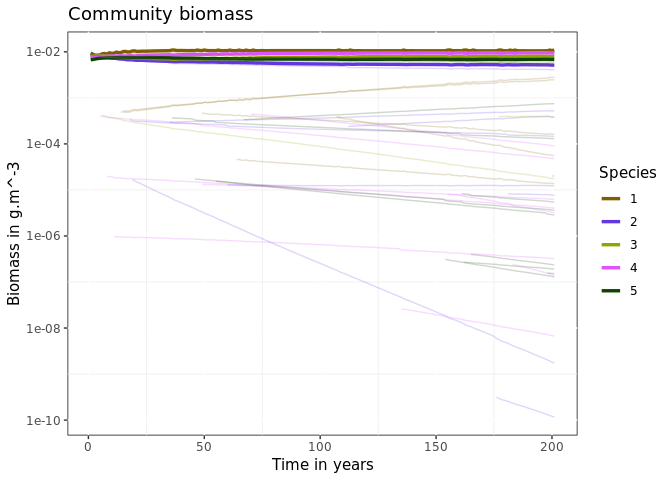
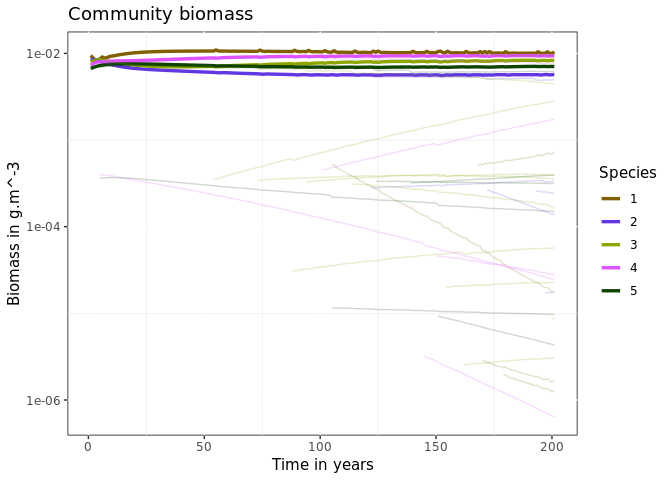
updating readme

diff --git a/README.md b/README.md
@@ -304,8 +304,384 @@ alien$species <- as.character(c(12,13))
 
 #important: for now need to add new species following the number of existing species (e.g. generated ecosystem contains 11 species so first invading species is 12). Does not work otherwise
 sim <- evoProject(params = params, alien = alien, mutation = 0)
+#>    species w_min       w_inf       w_mat w_min_idx  h    gamma ks  f0   fc beta
+#> 1        1 0.001    10.00000    2.511886         1 40 2754.672  4 0.6 0.25  100
+#> 2        2 0.001    19.95262    5.011872         1 40 2754.672  4 0.6 0.25  100
+#> 3        3 0.001    39.81072   10.000000         1 40 2754.672  4 0.6 0.25  100
+#> 4        4 0.001    79.43282   19.952623         1 40 2754.672  4 0.6 0.25  100
+#> 5        5 0.001   158.48932   39.810717         1 40 2754.672  4 0.6 0.25  100
+#> 6        6 0.001   316.22777   79.432823         1 40 2754.672  4 0.6 0.25  100
+#> 7        7 0.001   630.95734  158.489319         1 40 2754.672  4 0.6 0.25  100
+#> 8        8 0.001  1258.92541  316.227766         1 40 2754.672  4 0.6 0.25  100
+#> 9        9 0.001  2511.88643  630.957344         1 40 2754.672  4 0.6 0.25  100
+#> 10      10 0.001  5011.87234 1258.925412         1 40 2754.672  4 0.6 0.25  100
+#> 11      11 0.001 10000.00000 2511.886432         1 40 2754.672  4 0.6 0.25  100
+#> 12      12 0.001    79.43282   19.952623         1 50 2754.672  4 0.6 0.25  100
+#>    sigma z0 alpha     erepro interaction_resource         n         p         q
+#> 1    1.3  0   0.4 0.11952402                    1 0.6666667 0.6666667 0.7166667
+#> 2    1.3  0   0.4 0.09480694                    1 0.6666667 0.6666667 0.7166667
+#> 3    1.3  0   0.4 0.07513533                    1 0.6666667 0.6666667 0.7166667
+#> 4    1.3  0   0.4 0.05979226                    1 0.6666667 0.6666667 0.7166667
+#> 5    1.3  0   0.4 0.04809642                    1 0.6666667 0.6666667 0.7166667
+#> 6    1.3  0   0.4 0.03924217                    1 0.6666667 0.6666667 0.7166667
+#> 7    1.3  0   0.4 0.03232946                    1 0.6666667 0.6666667 0.7166667
+#> 8    1.3  0   0.4 0.02658807                    1 0.6666667 0.6666667 0.7166667
+#> 9    1.3  0   0.4 0.02163458                    1 0.6666667 0.6666667 0.7166667
+#> 10   1.3  0   0.4 0.01743907                    1 0.6666667 0.6666667 0.7166667
+#> 11   1.3  0   0.4 0.01403004                    1 0.6666667 0.6666667 0.7166667
+#> 12   1.3  0   0.6 0.05979226                    1 0.6666667 0.6666667 0.7166667
+#>    pred_kernel_type k     w_mat25 m       R_max lineage ea_int ca_int zeta pop
+#> 1         lognormal 0    2.250546 1 1.032270637       1      0      0  0.2   1
+#> 2         lognormal 0    4.490429 1 0.635115196       2      0      0  0.2   1
+#> 3         lognormal 0    8.959585 1 0.390761200       3      0      0  0.2   1
+#> 4         lognormal 0   17.876722 1 0.240419874       4      0      0  0.2   1
+#> 5         lognormal 0   35.668749 1 0.147920816       5      0      0  0.2   1
+#> 6         lognormal 0   71.168510 1 0.091009814       6      0      0  0.2   1
+#> 7         lognormal 0  141.999846 1 0.055994730       7      0      0  0.2   1
+#> 8         lognormal 0  283.326942 1 0.034451337       8      0      0  0.2   1
+#> 9         lognormal 0  565.311571 1 0.021196542       9      0      0  0.2   1
+#> 10        lognormal 0 1127.944873 1 0.013041392      10      0      0  0.2   1
+#> 11        lognormal 0 2250.545898 1 0.008023851      11      0      0  0.2   1
+#> 12        lognormal 0   17.876722 1 0.240419874      12      0      0  0.2   1
+#>      ext time
+#> 1  FALSE   NA
+#> 2  FALSE   NA
+#> 3  FALSE   NA
+#> 4  FALSE   NA
+#> 5  FALSE   NA
+#> 6  FALSE   NA
+#> 7  FALSE   NA
+#> 8  FALSE   NA
+#> 9  FALSE   NA
+#> 10 FALSE   NA
+#> 11 FALSE   NA
+#> 12 FALSE   50
+#>    species w_min       w_inf       w_mat w_min_idx  h    gamma ks  f0   fc beta
+#> 1        1 0.001    10.00000    2.511886         1 40 2754.672  4 0.6 0.25  100
+#> 2        2 0.001    19.95262    5.011872         1 40 2754.672  4 0.6 0.25  100
+#> 3        3 0.001    39.81072   10.000000         1 40 2754.672  4 0.6 0.25  100
+#> 4        4 0.001    79.43282   19.952623         1 40 2754.672  4 0.6 0.25  100
+#> 5        5 0.001   158.48932   39.810717         1 40 2754.672  4 0.6 0.25  100
+#> 6        6 0.001   316.22777   79.432823         1 40 2754.672  4 0.6 0.25  100
+#> 7        7 0.001   630.95734  158.489319         1 40 2754.672  4 0.6 0.25  100
+#> 8        8 0.001  1258.92541  316.227766         1 40 2754.672  4 0.6 0.25  100
+#> 9        9 0.001  2511.88643  630.957344         1 40 2754.672  4 0.6 0.25  100
+#> 10      10 0.001  5011.87234 1258.925412         1 40 2754.672  4 0.6 0.25  100
+#> 11      11 0.001 10000.00000 2511.886432         1 40 2754.672  4 0.6 0.25  100
+#> 12      12 0.001    79.43282   19.952623         1 50 2754.672  4 0.6 0.25  100
+#> 13      13 0.001   158.48932   39.810717         1 50 2754.672  4 0.6 0.25  100
+#>    sigma z0 alpha     erepro interaction_resource         n         p         q
+#> 1    1.3  0   0.4 0.11952402                    1 0.6666667 0.6666667 0.7166667
+#> 2    1.3  0   0.4 0.09480694                    1 0.6666667 0.6666667 0.7166667
+#> 3    1.3  0   0.4 0.07513533                    1 0.6666667 0.6666667 0.7166667
+#> 4    1.3  0   0.4 0.05979226                    1 0.6666667 0.6666667 0.7166667
+#> 5    1.3  0   0.4 0.04809642                    1 0.6666667 0.6666667 0.7166667
+#> 6    1.3  0   0.4 0.03924217                    1 0.6666667 0.6666667 0.7166667
+#> 7    1.3  0   0.4 0.03232946                    1 0.6666667 0.6666667 0.7166667
+#> 8    1.3  0   0.4 0.02658807                    1 0.6666667 0.6666667 0.7166667
+#> 9    1.3  0   0.4 0.02163458                    1 0.6666667 0.6666667 0.7166667
+#> 10   1.3  0   0.4 0.01743907                    1 0.6666667 0.6666667 0.7166667
+#> 11   1.3  0   0.4 0.01403004                    1 0.6666667 0.6666667 0.7166667
+#> 12   1.3  0   0.6 0.05979226                    1 0.6666667 0.6666667 0.7166667
+#> 13   1.3  0   0.6 0.04809642                    1 0.6666667 0.6666667 0.7166667
+#>    pred_kernel_type k     w_mat25 m       R_max lineage ea_int ca_int zeta pop
+#> 1         lognormal 0    2.250546 1 1.032270637       1      0      0  0.2   1
+#> 2         lognormal 0    4.490429 1 0.635115196       2      0      0  0.2   1
+#> 3         lognormal 0    8.959585 1 0.390761200       3      0      0  0.2   1
+#> 4         lognormal 0   17.876722 1 0.240419874       4      0      0  0.2   1
+#> 5         lognormal 0   35.668749 1 0.147920816       5      0      0  0.2   1
+#> 6         lognormal 0   71.168510 1 0.091009814       6      0      0  0.2   1
+#> 7         lognormal 0  141.999846 1 0.055994730       7      0      0  0.2   1
+#> 8         lognormal 0  283.326942 1 0.034451337       8      0      0  0.2   1
+#> 9         lognormal 0  565.311571 1 0.021196542       9      0      0  0.2   1
+#> 10        lognormal 0 1127.944873 1 0.013041392      10      0      0  0.2   1
+#> 11        lognormal 0 2250.545898 1 0.008023851      11      0      0  0.2   1
+#> 12        lognormal 0   17.876722 1 0.240419874      12      0      0  0.2   1
+#> 13        lognormal 0   35.668749 1 0.147920816      13      0      0  0.2   1
+#>      ext time
+#> 1  FALSE   NA
+#> 2  FALSE   NA
+#> 3  FALSE   NA
+#> 4  FALSE   NA
+#> 5  FALSE   NA
+#> 6  FALSE   NA
+#> 7  FALSE   NA
+#> 8  FALSE   NA
+#> 9  FALSE   NA
+#> 10 FALSE   NA
+#> 11 FALSE   NA
+#> 12 FALSE   50
+#> 13 FALSE   75
 #> [1] "Data handling"
 plotDynamics(sim)
 ```
 
 ![](man/figures/species_invasion-1.png)<!-- -->
+
+Randomly introducing alien species. By giving an integer to the `alien`
+argument, this will become a rate per thousand of invation rate. The
+`alien_n_init` controls the initial level of abundance when introducing
+an invasive species. It is a multiplier of the inital abundance
+calculated to create a size spectrum. Default is set to `NULL`, making
+it `kappa/1000`.
+
+``` r
+params <- evoParams()
+
+sim <- evoProject(params = params, mutation = 0, alien = 3, alien_init_n = NULL)
+#> [1] "alien trying to invade ecosystem"
+#>    species w_min       w_inf       w_mat w_min_idx      h        gamma       ks
+#> 1        1 0.001    10.00000    2.511886         1  40.00 2.754672e+03 4.000000
+#> 2        2 0.001    19.95262    5.011872         1  40.00 2.754672e+03 4.000000
+#> 3        3 0.001    39.81072   10.000000         1  40.00 2.754672e+03 4.000000
+#> 4        4 0.001    79.43282   19.952623         1  40.00 2.754672e+03 4.000000
+#> 5        5 0.001   158.48932   39.810717         1  40.00 2.754672e+03 4.000000
+#> 6        6 0.001   316.22777   79.432823         1  40.00 2.754672e+03 4.000000
+#> 7        7 0.001   630.95734  158.489319         1  40.00 2.754672e+03 4.000000
+#> 8        8 0.001  1258.92541  316.227766         1  40.00 2.754672e+03 4.000000
+#> 9        9 0.001  2511.88643  630.957344         1  40.00 2.754672e+03 4.000000
+#> 10      10 0.001  5011.87234 1258.925412         1  40.00 2.754672e+03 4.000000
+#> 11      11 0.001 10000.00000 2511.886432         1  40.00 2.754672e+03 4.000000
+#> 12      12 0.001  3940.80059  339.489082         1 126.02 1.637959e-10 3.773004
+#>     f0   fc     beta    sigma         z0 alpha     erepro interaction_resource
+#> 1  0.6 0.25    100.0 1.300000 0.00000000   0.4 0.11952402                    1
+#> 2  0.6 0.25    100.0 1.300000 0.00000000   0.4 0.09480694                    1
+#> 3  0.6 0.25    100.0 1.300000 0.00000000   0.4 0.07513533                    1
+#> 4  0.6 0.25    100.0 1.300000 0.00000000   0.4 0.05979226                    1
+#> 5  0.6 0.25    100.0 1.300000 0.00000000   0.4 0.04809642                    1
+#> 6  0.6 0.25    100.0 1.300000 0.00000000   0.4 0.03924217                    1
+#> 7  0.6 0.25    100.0 1.300000 0.00000000   0.4 0.03232946                    1
+#> 8  0.6 0.25    100.0 1.300000 0.00000000   0.4 0.02658807                    1
+#> 9  0.6 0.25    100.0 1.300000 0.00000000   0.4 0.02163458                    1
+#> 10 0.6 0.25    100.0 1.300000 0.00000000   0.4 0.01743907                    1
+#> 11 0.6 0.25    100.0 1.300000 0.00000000   0.4 0.01403004                    1
+#> 12 0.6 0.25 396272.8 2.265746 0.03798596   0.6 1.00000000                    1
+#>            n         p         q pred_kernel_type k     w_mat25 m        R_max
+#> 1  0.6666667 0.6666667 0.7166667        lognormal 0    2.250546 1  1.032270637
+#> 2  0.6666667 0.6666667 0.7166667        lognormal 0    4.490429 1  0.635115196
+#> 3  0.6666667 0.6666667 0.7166667        lognormal 0    8.959585 1  0.390761200
+#> 4  0.6666667 0.6666667 0.7166667        lognormal 0   17.876722 1  0.240419874
+#> 5  0.6666667 0.6666667 0.7166667        lognormal 0   35.668749 1  0.147920816
+#> 6  0.6666667 0.6666667 0.7166667        lognormal 0   71.168510 1  0.091009814
+#> 7  0.6666667 0.6666667 0.7166667        lognormal 0  141.999846 1  0.055994730
+#> 8  0.6666667 0.6666667 0.7166667        lognormal 0  283.326942 1  0.034451337
+#> 9  0.6666667 0.6666667 0.7166667        lognormal 0  565.311571 1  0.021196542
+#> 10 0.6666667 0.6666667 0.7166667        lognormal 0 1127.944873 1  0.013041392
+#> 11 0.6666667 0.6666667 0.7166667        lognormal 0 2250.545898 1  0.008023851
+#> 12 0.6666667 0.7000000 0.7166667        lognormal 0  304.168115 1 10.000000000
+#>    lineage ea_int ca_int zeta pop   ext      k_vb
+#> 1        1      0      0  0.2   1 FALSE        NA
+#> 2        2      0      0  0.2   1 FALSE        NA
+#> 3        3      0      0  0.2   1 FALSE        NA
+#> 4        4      0      0  0.2   1 FALSE        NA
+#> 5        5      0      0  0.2   1 FALSE        NA
+#> 6        6      0      0  0.2   1 FALSE        NA
+#> 7        7      0      0  0.2   1 FALSE        NA
+#> 8        8      0      0  0.2   1 FALSE        NA
+#> 9        9      0      0  0.2   1 FALSE        NA
+#> 10      10      0      0  0.2   1 FALSE        NA
+#> 11      11      0      0  0.2   1 FALSE        NA
+#> 12      12      0      0  0.2  19 FALSE 0.7476512
+#> [1] "alien trying to invade ecosystem"
+#>    species w_min       w_inf       w_mat w_min_idx         h        gamma
+#> 1        1 0.001    10.00000    2.511886         1  40.00000 2.754672e+03
+#> 2        2 0.001    19.95262    5.011872         1  40.00000 2.754672e+03
+#> 3        3 0.001    39.81072   10.000000         1  40.00000 2.754672e+03
+#> 4        4 0.001    79.43282   19.952623         1  40.00000 2.754672e+03
+#> 5        5 0.001   158.48932   39.810717         1  40.00000 2.754672e+03
+#> 6        6 0.001   316.22777   79.432823         1  40.00000 2.754672e+03
+#> 7        7 0.001   630.95734  158.489319         1  40.00000 2.754672e+03
+#> 8        8 0.001  1258.92541  316.227766         1  40.00000 2.754672e+03
+#> 9        9 0.001  2511.88643  630.957344         1  40.00000 2.754672e+03
+#> 10      10 0.001  5011.87234 1258.925412         1  40.00000 2.754672e+03
+#> 11      11 0.001 10000.00000 2511.886432         1  40.00000 2.754672e+03
+#> 12      12 0.001  3940.80059  339.489082         1 126.01997 1.637959e-10
+#> 13      13 0.001   277.17742   46.981701         1  41.45574 6.588478e-11
+#>          ks  f0   fc     beta    sigma         z0 alpha     erepro
+#> 1  4.000000 0.6 0.25    100.0 1.300000 0.00000000   0.4 0.11952402
+#> 2  4.000000 0.6 0.25    100.0 1.300000 0.00000000   0.4 0.09480694
+#> 3  4.000000 0.6 0.25    100.0 1.300000 0.00000000   0.4 0.07513533
+#> 4  4.000000 0.6 0.25    100.0 1.300000 0.00000000   0.4 0.05979226
+#> 5  4.000000 0.6 0.25    100.0 1.300000 0.00000000   0.4 0.04809642
+#> 6  4.000000 0.6 0.25    100.0 1.300000 0.00000000   0.4 0.03924217
+#> 7  4.000000 0.6 0.25    100.0 1.300000 0.00000000   0.4 0.03232946
+#> 8  4.000000 0.6 0.25    100.0 1.300000 0.00000000   0.4 0.02658807
+#> 9  4.000000 0.6 0.25    100.0 1.300000 0.00000000   0.4 0.02163458
+#> 10 4.000000 0.6 0.25    100.0 1.300000 0.00000000   0.4 0.01743907
+#> 11 4.000000 0.6 0.25    100.0 1.300000 0.00000000   0.4 0.01403004
+#> 12 3.773004 0.6 0.25 396272.8 2.265746 0.03798596   0.6 1.00000000
+#> 13 2.074027 0.6 0.25 207208.2 1.917540 0.09202348   0.6 1.00000000
+#>    interaction_resource         n         p         q pred_kernel_type k
+#> 1                     1 0.6666667 0.6666667 0.7166667        lognormal 0
+#> 2                     1 0.6666667 0.6666667 0.7166667        lognormal 0
+#> 3                     1 0.6666667 0.6666667 0.7166667        lognormal 0
+#> 4                     1 0.6666667 0.6666667 0.7166667        lognormal 0
+#> 5                     1 0.6666667 0.6666667 0.7166667        lognormal 0
+#> 6                     1 0.6666667 0.6666667 0.7166667        lognormal 0
+#> 7                     1 0.6666667 0.6666667 0.7166667        lognormal 0
+#> 8                     1 0.6666667 0.6666667 0.7166667        lognormal 0
+#> 9                     1 0.6666667 0.6666667 0.7166667        lognormal 0
+#> 10                    1 0.6666667 0.6666667 0.7166667        lognormal 0
+#> 11                    1 0.6666667 0.6666667 0.7166667        lognormal 0
+#> 12                    1 0.6666667 0.7000000 0.7166667        lognormal 0
+#> 13                    1 0.6666667 0.7000000 0.7166667        lognormal 0
+#>        w_mat25 m        R_max lineage ea_int ca_int zeta pop   ext      k_vb
+#> 1     2.250546 1  1.032270637       1      0      0  0.2   1 FALSE        NA
+#> 2     4.490429 1  0.635115196       2      0      0  0.2   1 FALSE        NA
+#> 3     8.959585 1  0.390761200       3      0      0  0.2   1 FALSE        NA
+#> 4    17.876722 1  0.240419874       4      0      0  0.2   1 FALSE        NA
+#> 5    35.668749 1  0.147920816       5      0      0  0.2   1 FALSE        NA
+#> 6    71.168510 1  0.091009814       6      0      0  0.2   1 FALSE        NA
+#> 7   141.999846 1  0.055994730       7      0      0  0.2   1 FALSE        NA
+#> 8   283.326942 1  0.034451337       8      0      0  0.2   1 FALSE        NA
+#> 9   565.311571 1  0.021196542       9      0      0  0.2   1 FALSE        NA
+#> 10 1127.944873 1  0.013041392      10      0      0  0.2   1 FALSE        NA
+#> 11 2250.545898 1  0.008023851      11      0      0  0.2   1 FALSE        NA
+#> 12  304.168115 1 10.000000000      12      0      0  0.2  19 FALSE 0.7476512
+#> 13   42.093652 1 10.000000000      13      0      0  0.2  78 FALSE 0.6667926
+#> [1] "alien trying to invade ecosystem"
+#>    species w_min       w_inf       w_mat w_min_idx         h        gamma
+#> 1        1 0.001    10.00000    2.511886         1  40.00000 2.754672e+03
+#> 2        2 0.001    19.95262    5.011872         1  40.00000 2.754672e+03
+#> 3        3 0.001    39.81072   10.000000         1  40.00000 2.754672e+03
+#> 4        4 0.001    79.43282   19.952623         1  40.00000 2.754672e+03
+#> 5        5 0.001   158.48932   39.810717         1  40.00000 2.754672e+03
+#> 6        6 0.001   316.22777   79.432823         1  40.00000 2.754672e+03
+#> 7        7 0.001   630.95734  158.489319         1  40.00000 2.754672e+03
+#> 8        8 0.001  1258.92541  316.227766         1  40.00000 2.754672e+03
+#> 9        9 0.001  2511.88643  630.957344         1  40.00000 2.754672e+03
+#> 10      10 0.001  5011.87234 1258.925412         1  40.00000 2.754672e+03
+#> 11      11 0.001 10000.00000 2511.886432         1  40.00000 2.754672e+03
+#> 12      12 0.001  3940.80059  339.489082         1 126.01997 1.637959e-10
+#> 13      13 0.001   277.17742   46.981701         1  41.45574 6.588478e-11
+#> 14      14 0.001   831.22889  160.883313         1  91.66642 5.071192e-10
+#>          ks  f0   fc     beta     sigma         z0 alpha     erepro
+#> 1  4.000000 0.6 0.25    100.0 1.3000000 0.00000000   0.4 0.11952402
+#> 2  4.000000 0.6 0.25    100.0 1.3000000 0.00000000   0.4 0.09480694
+#> 3  4.000000 0.6 0.25    100.0 1.3000000 0.00000000   0.4 0.07513533
+#> 4  4.000000 0.6 0.25    100.0 1.3000000 0.00000000   0.4 0.05979226
+#> 5  4.000000 0.6 0.25    100.0 1.3000000 0.00000000   0.4 0.04809642
+#> 6  4.000000 0.6 0.25    100.0 1.3000000 0.00000000   0.4 0.03924217
+#> 7  4.000000 0.6 0.25    100.0 1.3000000 0.00000000   0.4 0.03232946
+#> 8  4.000000 0.6 0.25    100.0 1.3000000 0.00000000   0.4 0.02658807
+#> 9  4.000000 0.6 0.25    100.0 1.3000000 0.00000000   0.4 0.02163458
+#> 10 4.000000 0.6 0.25    100.0 1.3000000 0.00000000   0.4 0.01743907
+#> 11 4.000000 0.6 0.25    100.0 1.3000000 0.00000000   0.4 0.01403004
+#> 12 3.773004 0.6 0.25 396272.8 2.2657458 0.03798596   0.6 1.00000000
+#> 13 2.074027 0.6 0.25 207208.2 1.9175405 0.09202348   0.6 1.00000000
+#> 14 7.172202 0.6 0.25 480634.8 0.5304179 0.06381328   0.6 1.00000000
+#>    interaction_resource         n         p         q pred_kernel_type k
+#> 1                     1 0.6666667 0.6666667 0.7166667        lognormal 0
+#> 2                     1 0.6666667 0.6666667 0.7166667        lognormal 0
+#> 3                     1 0.6666667 0.6666667 0.7166667        lognormal 0
+#> 4                     1 0.6666667 0.6666667 0.7166667        lognormal 0
+#> 5                     1 0.6666667 0.6666667 0.7166667        lognormal 0
+#> 6                     1 0.6666667 0.6666667 0.7166667        lognormal 0
+#> 7                     1 0.6666667 0.6666667 0.7166667        lognormal 0
+#> 8                     1 0.6666667 0.6666667 0.7166667        lognormal 0
+#> 9                     1 0.6666667 0.6666667 0.7166667        lognormal 0
+#> 10                    1 0.6666667 0.6666667 0.7166667        lognormal 0
+#> 11                    1 0.6666667 0.6666667 0.7166667        lognormal 0
+#> 12                    1 0.6666667 0.7000000 0.7166667        lognormal 0
+#> 13                    1 0.6666667 0.7000000 0.7166667        lognormal 0
+#> 14                    1 0.6666667 0.7000000 0.7166667        lognormal 0
+#>        w_mat25 m        R_max lineage ea_int ca_int zeta pop   ext      k_vb
+#> 1     2.250546 1  1.032270637       1      0      0  0.2   1 FALSE        NA
+#> 2     4.490429 1  0.635115196       2      0      0  0.2   1 FALSE        NA
+#> 3     8.959585 1  0.390761200       3      0      0  0.2   1 FALSE        NA
+#> 4    17.876722 1  0.240419874       4      0      0  0.2   1 FALSE        NA
+#> 5    35.668749 1  0.147920816       5      0      0  0.2   1 FALSE        NA
+#> 6    71.168510 1  0.091009814       6      0      0  0.2   1 FALSE        NA
+#> 7   141.999846 1  0.055994730       7      0      0  0.2   1 FALSE        NA
+#> 8   283.326942 1  0.034451337       8      0      0  0.2   1 FALSE        NA
+#> 9   565.311571 1  0.021196542       9      0      0  0.2   1 FALSE        NA
+#> 10 1127.944873 1  0.013041392      10      0      0  0.2   1 FALSE        NA
+#> 11 2250.545898 1  0.008023851      11      0      0  0.2   1 FALSE        NA
+#> 12  304.168115 1 10.000000000      12      0      0  0.2  19 FALSE 0.7476512
+#> 13   42.093652 1 10.000000000      13      0      0  0.2  78 FALSE 0.6667926
+#> 14  144.144765 1 10.000000000      14      0      0  0.2  95 FALSE 1.0382023
+#> [1] "Data handling"
+
+plotDynamics(sim)
+```
+
+![](man/figures/unnamed-chunk-1-1.png)<!-- -->
+
+``` r
+# plotSS(sim)
+```
+
+One can supply a data frame of trait values which should be used to
+create invasive species using `trait_range`.
+
+The default data frame is
+
+| trait  | distribution |         mean |           sd |
+|:-------|:-------------|-------------:|-------------:|
+| w\_inf | lnorm        | 6.764846e+00 | 2.252483e+00 |
+| betaS  | norm         | 1.862222e+02 | 1.765973e+02 |
+| betaL  | norm         | 2.434883e+05 | 1.443748e+05 |
+| sigma  | norm         | 1.716667e+00 | 5.742144e-01 |
+| k\_vb  | norm         | 4.440833e-01 | 2.729348e-01 |
+| ks     | norm         | 6.289310e+00 | 2.573763e+00 |
+| eta    | norm         | 1.207153e-01 | 1.148086e-01 |
+
+These values are taken from the North Sea parameters.
+
+The current assumptions are:
+
+-   `w_inf` follows a logarithmic distribution
+
+-   `beta` follows a u-shaped distribution caracterised by fitting two
+    normal distributions over small betas (piscivore) and large betas
+    (planktivore) species
+
+-   `sigma`, `k_vb`, `ks` and `eta` follow normal distribution
+
+-   `w_mat` is generated through `w_inf` x `eta`
+
+Next update: switch beta, sigma, k\_vb and ks to uniform distribution
+
+# Updating existing params
+
+The argument `updateParams` in `evoParams` updates an existing
+`mizerParams` object into a `mizerEvolution` compatible object.
+
+``` r
+newP <- evoParams(updateParams = NS_params)
+
+sim <- evoProject(params = newP, mutation = 1, trait = "beta")
+#> [1] "Data handling"
+
+plotDynamics(sim)
+```
+
+![](man/figures/unnamed-chunk-3-1.png)<!-- -->
+
+There are no differences if `mutation` is set to 0
+
+``` r
+old_sim <- project(NS_params)
+
+sim <- evoProject(params = newP, mutation = 0)
+
+plotDynamics(sim)
+```
+
+![](man/figures/unnamed-chunk-4-1.png)<!-- -->
+
+``` r
+plotBiomass(old_sim)
+```
+
+![](man/figures/unnamed-chunk-4-2.png)<!-- -->
+
+Invasions work too
+
+``` r
+sim_inv <- evoProject(params = newP, mutation = 0, alien =2)
+
+plotDynamics(sim_inv)
+```
+
+![](man/figures/unnamed-chunk-5-1.png)<!-- -->
